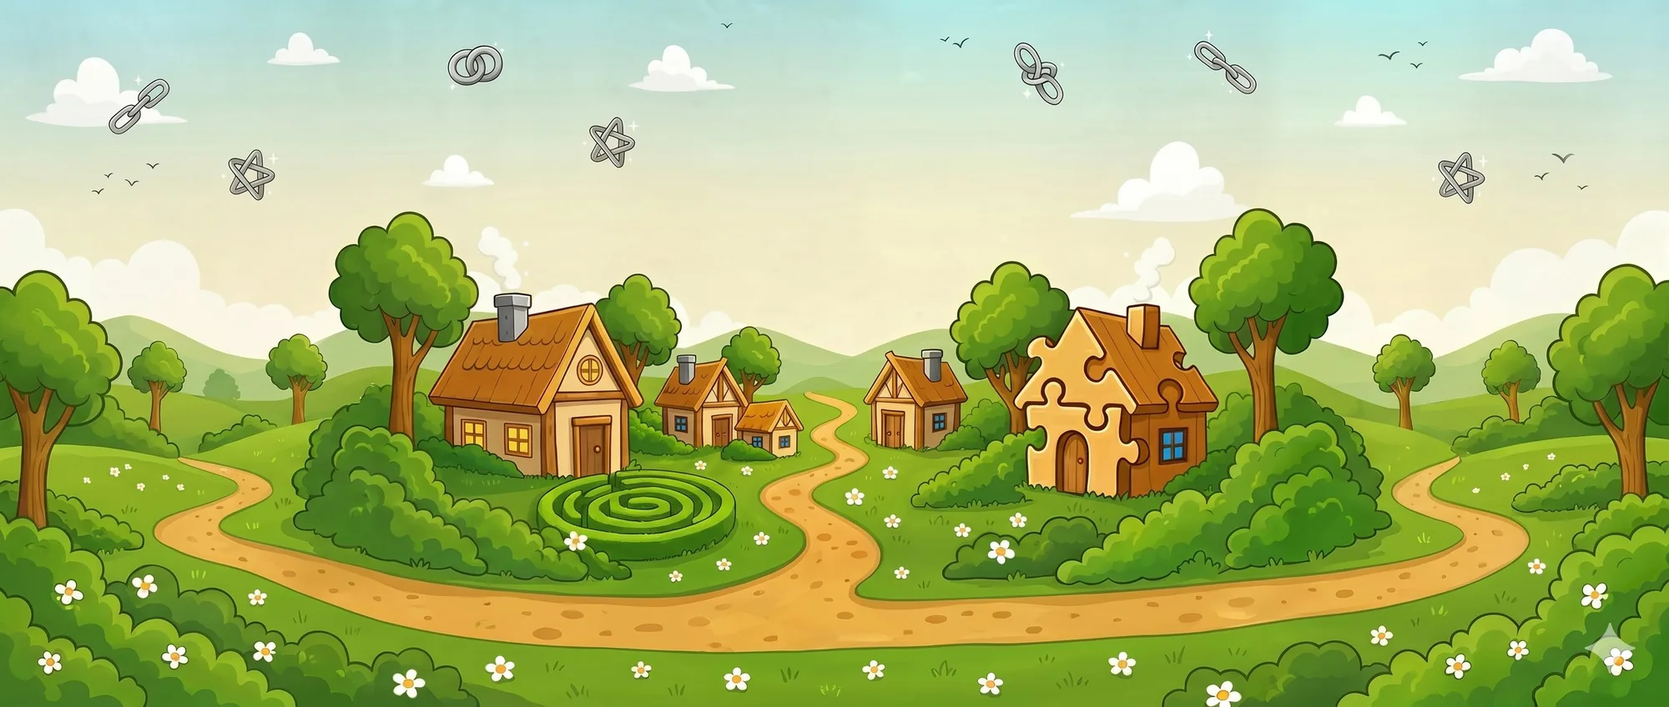
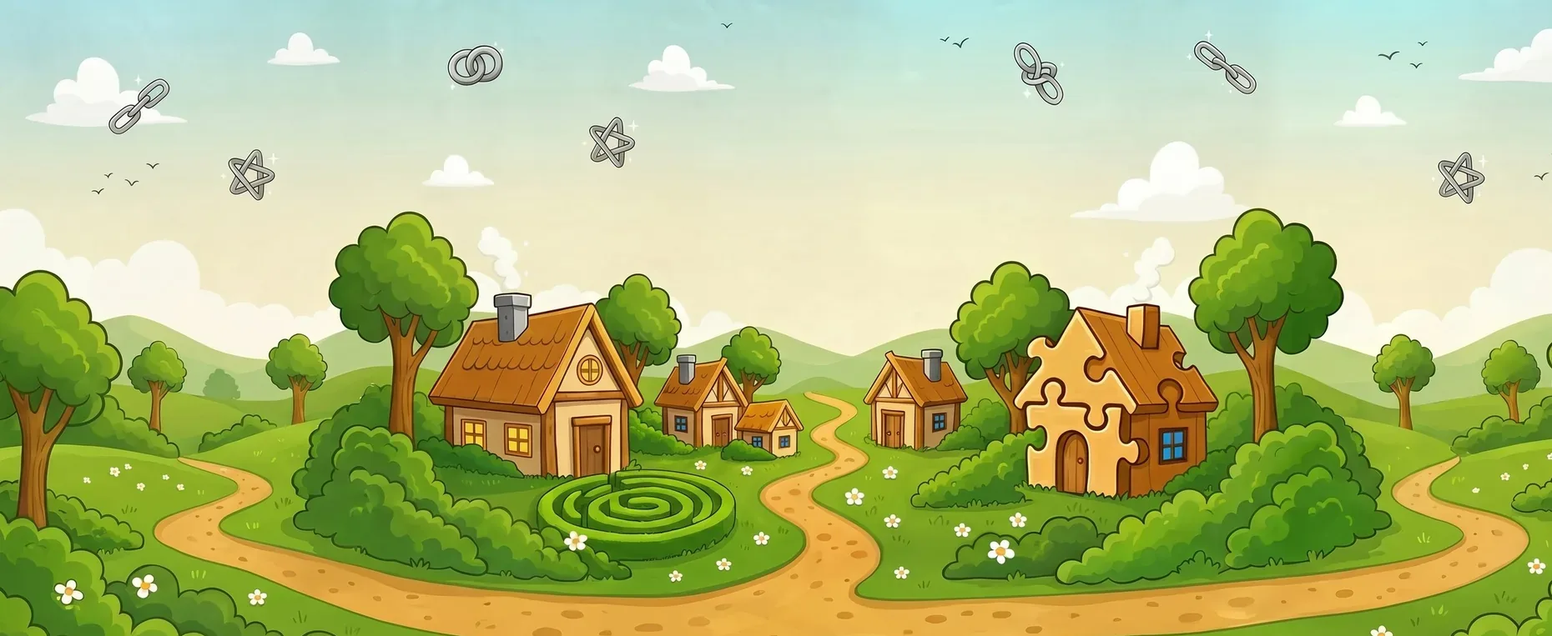
fix: кейс «Загадкино» — пропорции героев, крупные наборы, иконки идеи
- картинки персонажей больше не сжимаются по высоте карточки (object-fit: contain)
- предметка: три набора крупно в ряд, головоломки отдельным рядом под ними
- иконки у карточек «Кузница», «Подмастерья», «Три опоры»
- с иллюстрации деревни срезан водяной знак в правом нижнем углу

diff --git a/css/case-zagadkino.min.css b/css/case-zagadkino.min.css
@@ -1,1 +1,1 @@
-.zg{--zg-cream:#FFF4E1;--zg-cream2:#F6E7CC;--zg-paper:#FFFBF3;--zg-ink:#3B210F;--zg-brown:#5A3318;--zg-brown2:#7A4D2E;--zg-honey:#E6A24A;--zg-honey-dark:#8C5410;--zg-orange:#FF8A2B;--zg-green:#2B7A3D;--zg-ease:cubic-bezier(.2, .8, .2, 1);--zg-spring:cubic-bezier(.34, 1.56, .64, 1)}.zg figure{margin:0}.zg-island{position:relative;background:var(--zg-cream);color:var(--zg-ink);border-radius:32px;padding:clamp(28px,5vw,72px);overflow:hidden;isolation:isolate}.zg-island h2,.zg-island h3{color:var(--zg-ink)}.zg-island p{color:var(--zg-brown2)}.zg-island--orange{background:var(--zg-orange)}.zg-island--orange h2,.zg-island--orange p{color:var(--zg-ink)}.zg-island--green{background:var(--zg-green)}.zg-island--green h2,.zg-island--green p{color:#fff}.zg-island--dark{background:#1e140c}.zg-island--dark h2,.zg-island--dark h3{color:#fff4e1}.zg-island--dark p{color:#e9d6b8}.zg-kicker{display:inline-flex;align-items:center;gap:12px;font:700 13px/1 var(--font-ui);letter-spacing:.16em;text-transform:uppercase;color:var(--zg-honey-dark);margin-bottom:16px}.zg-kicker::before{content:"";width:28px;height:3px;border-radius:3px;background:var(--zg-honey)}.zg-island--green .zg-kicker{color:#fff}.zg-island--green .zg-kicker::before{background:#fff}.zg-island--orange .zg-kicker{color:var(--zg-ink)}.zg-island--orange .zg-kicker::before{background:var(--zg-ink)}.zg-island--dark .zg-kicker{color:#ffd463}.zg-island--dark .zg-kicker::before{background:#ffd463}.zg-island h2{font-size:clamp(28px, 4vw, 48px);line-height:1.08;margin-bottom:18px;text-wrap:balance}.zg-island p{font-size:clamp(16px, 1.3vw, 19px);line-height:1.55;max-width:60ch;text-wrap:pretty}.zg-head{margin-bottom:clamp(24px,4vw,44px);max-width:760px}.zg-cap{font:700 12px/1.2 var(--font-ui);letter-spacing:.12em;text-transform:uppercase;color:var(--zg-brown2);margin-top:12px}.zg-card{background:#fff;border:2px solid var(--zg-brown);border-radius:24px;padding:24px 26px}.zg-card h3{font-size:20px;margin-bottom:8px;color:var(--zg-honey-dark)}.zg-card p{font-size:16px}.zg-grid-3{display:grid;grid-template-columns:repeat(3,1fr);gap:20px}.zg-hero{position:relative}.zg-hero .container{position:relative}.zg-hero__uzlik{position:absolute;right:0;top:50%;width:min(34vw,460px);transform:translateY(-50%);pointer-events:auto;cursor:pointer;filter:drop-shadow(0 30px 40px rgba(0, 0, 0, .45))}.zg-hero__uzlik img{width:100%;height:auto;display:block;animation:zg-float 2.4s ease-in-out 2}.zg-hero__uzlik:focus-visible img,.zg-hero__uzlik:hover img{animation:zg-wiggle .7s var(--zg-ease) 1,zg-float 2.4s ease-in-out .7s 1}.zg-hero__uzlik:focus-visible{outline-offset:6px;border-radius:24px}.zg-hero__bubble{position:absolute;right:-2%;top:-8%;background:var(--zg-cream);color:var(--zg-ink);font:700 14px/1.2 var(--font-ui);padding:10px 14px;border-radius:16px 16px 16px 4px;opacity:0;transform:translateY(8px) scale(.9);transition:.35s var(--zg-spring)}.zg-hero__uzlik:focus-visible .zg-hero__bubble,.zg-hero__uzlik:hover .zg-hero__bubble{opacity:1;transform:none}.zg-hero__uzlik.is-quiet .zg-hero__bubble{opacity:0!important}.zg-hero .hero-copy{max-width:640px}@keyframes zg-float{0%,100%{transform:translateY(0) rotate(-3deg)}50%{transform:translateY(-18px) rotate(3deg)}}@keyframes zg-wiggle{0%{transform:rotate(0)}20%{transform:rotate(-12deg) scale(1.04)}40%{transform:rotate(10deg)}60%{transform:rotate(-6deg)}80%{transform:rotate(3deg)}100%{transform:rotate(0)}}.zg [data-anim]{transition:opacity .7s var(--zg-ease),transform .8s var(--zg-ease),clip-path 1s var(--zg-ease);transition-delay:calc(var(--i, 0) * 70ms)}.zg .reveal[data-anim=pop]{transform:scale(.82)}.zg .reveal[data-anim=slap]{transform:scale(1.35) rotate(var(--r,-8deg))}.zg .reveal[data-anim=slap].is-visible{transform:rotate(var(--r,-8deg));transition-timing-function:var(--zg-spring)}.zg .reveal[data-anim=wipe]{opacity:1;transform:none}.zg .reveal[data-anim=wipe]>*{clip-path:inset(0 100% 0 0);transition:clip-path 1.1s var(--zg-ease);transition-delay:calc(var(--i, 0) * 70ms)}.zg .reveal[data-anim=wipe].is-visible>*{clip-path:inset(0 0 0 0)}.zg .reveal[data-anim=left]{transform:translateX(-40px)}.zg .reveal[data-anim=right]{transform:translateX(40px)}.zg .reveal[data-anim].is-visible:not([data-anim=slap]){transform:none}.zg .reveal[data-stagger]>*{opacity:0;transform:translateY(18px) scale(.96);transition:opacity .5s var(--zg-ease),transform .6s var(--zg-spring);transition-delay:calc(var(--i, 0) * 35ms)}.zg .reveal[data-stagger].is-visible>*{opacity:1;transform:none}.zg-done{display:flex;flex-wrap:wrap;gap:10px;margin-top:22px}.zg-done{list-style:none;padding:0}.zg-done li{background:rgba(230,162,74,.14);color:var(--text);border:1px solid rgba(230,162,74,.35);border-radius:999px;padding:8px 14px;font:600 14px/1 var(--font-ui)}.zg-village{border-radius:24px;border:2px solid var(--zg-brown);overflow:hidden;margin-bottom:22px;aspect-ratio:2600/900}.zg-village img{width:100%;height:100%;object-fit:cover;object-position:50% 70%;display:block;transform:scale(1.08);transition:transform 2.4s var(--zg-ease)}.zg-village.is-visible img{transform:scale(1)}.zg-search{display:grid;grid-template-columns:1fr 1fr .9fr;gap:22px;align-items:center}.zg-search__grid{border-radius:20px;border:2px solid var(--zg-brown);overflow:hidden;background:var(--zg-cream);aspect-ratio:1/1;position:relative}.zg-search__grid img{width:100%;height:100%;object-fit:cover;object-position:top;display:block}.zg-search__tag{position:absolute;left:12px;top:12px;background:var(--zg-brown);color:var(--zg-cream);font:700 13px/1 var(--font-ui);padding:9px 12px;border-radius:8px}.zg-search__final{text-align:center}.zg-search__final img{width:100%;max-width:380px;height:auto;filter:drop-shadow(0 18px 26px rgba(59, 33, 15, .3))}.zg-palette{display:grid;grid-template-columns:repeat(3,minmax(0,1.4fr)) repeat(6,minmax(0,1fr));gap:12px;margin-bottom:22px}.zg-chip{aspect-ratio:3/4;border-radius:18px;border:2px solid var(--zg-brown);padding:14px;display:flex;flex-direction:column;justify-content:flex-end}.zg-chip b{font:700 13px/1.2 var(--font-ui);hyphens:none}.zg-chip i{font:600 12px/1 var(--font-ui);font-style:normal;margin-top:6px;letter-spacing:.04em}.zg-type{display:grid;grid-template-columns:1.1fr 1fr;gap:20px}.zg-type .big{font-size:clamp(30px, 8vw, 80px);line-height:1;margin:10px 0 14px;color:var(--zg-ink);font-weight:800}.zg-type .slogan{color:#b5530f;font-weight:700;font-size:clamp(20px, 2.2vw, 28px)}.zg-family .zg-card{text-align:left}.zg-family__pic{height:300px;display:flex;align-items:flex-end;justify-content:center;margin-bottom:18px}.zg-family__pic img{max-height:100%;max-width:100%;transition:transform .5s var(--zg-spring)}.zg-family .zg-card:hover .zg-family__pic img{transform:translateY(-8px) rotate(-2deg)}.zg-family h3{color:var(--zg-ink);font-size:22px}.zg-role{font:700 12px/1 var(--font-ui);letter-spacing:.1em;text-transform:uppercase;color:var(--zg-honey-dark);margin-bottom:10px}.zg-quote{margin-top:14px;padding-left:14px;border-left:4px solid var(--zg-honey);color:var(--zg-honey-dark);font-weight:700;font-size:16px}.zg-sheets{display:grid;grid-template-columns:1.2fr 1fr;gap:20px;margin-top:20px}.zg-sheets .zg-card{padding:12px;display:flex;align-items:center}.zg-sheets img{width:100%;height:auto;display:block}.zg-uz{display:grid;grid-template-columns:minmax(0,1fr) minmax(0,1fr);gap:40px;align-items:center}.zg-uz__main{position:relative}.zg-uz__main.is-visible>img{animation:zg-float 2.4s ease-in-out 2}.zg-uz__main:hover>img{animation:zg-wiggle .7s var(--zg-ease) 1}.zg-uz__main>img{width:100%;height:auto;filter:drop-shadow(0 26px 30px rgba(59, 33, 15, .25))}.zg-emos{display:grid;grid-template-columns:repeat(3,minmax(0,1fr));gap:14px;margin-top:24px}.zg-emos figure{background:#fff;border:2px solid var(--zg-brown);border-radius:18px;padding:14px 8px 10px;text-align:center;transition:transform .3s var(--zg-spring)}.zg-emos figure:hover{transform:translateY(-6px) rotate(-3deg)}.zg-emos img{height:auto;width:100%;max-width:110px}.zg-emos figcaption{font:700 12px/1 var(--font-ui);letter-spacing:.08em;text-transform:uppercase;color:var(--zg-brown2);margin-top:8px}.zg-uz__forms{display:grid;grid-template-columns:minmax(0,1fr) minmax(0,1fr);gap:16px;margin-top:18px}.zg-uz__forms .zg-card{display:flex;align-items:center;justify-content:center;padding:18px}.zg-uz__forms img{width:100%;height:auto}.zg-tone{display:grid;grid-template-columns:1.1fr 1fr;gap:20px}.zg-tone .yes{background:#fff;border:2px solid var(--zg-brown);border-radius:24px;padding:28px 30px}.zg-tone .no{border:2px dashed #d9be98;border-radius:24px;padding:28px 30px}.zg-tone .lbl{font:700 13px/1 var(--font-ui);letter-spacing:.12em;text-transform:uppercase;margin-bottom:14px}.zg-tone .yes .lbl{color:var(--zg-green)}.zg-tone .no .lbl{color:#a0472c}.zg-tone q{display:block;font-weight:700;font-size:clamp(18px, 1.8vw, 24px);color:var(--zg-ink);padding:8px 0;quotes:"«" "»"}.zg-tone .no span{display:block;font-weight:700;font-size:clamp(16px, 1.5vw, 20px);color:#7e5d40;padding:8px 0;background:linear-gradient(#c9694f,#c9694f) 0 55%/0 3px no-repeat;transition:background-size .6s var(--zg-ease);transition-delay:calc(.4s + var(--i, 0) * 180ms)}.zg-tone.is-visible .no span{background-size:100% 3px}.zg-lids{display:grid;grid-template-columns:repeat(2,1fr);gap:18px}.zg-ply{aspect-ratio:16/10;border-radius:20px;border:2px solid var(--zg-brown);background:linear-gradient(135deg,#d9a66b,#c88a4e 55%,#d49c5f);display:flex;align-items:center;justify-content:center;position:relative;overflow:hidden}.zg-ply img{width:84%;height:78%;object-fit:contain;opacity:.92}.zg-ply .zg-cap{position:absolute;left:14px;bottom:12px;margin:0;color:var(--zg-ink);background:rgba(255,244,225,.85);padding:5px 9px;border-radius:6px}.zg-box{display:grid;grid-template-columns:1fr 1fr;gap:22px;align-items:center;margin-top:26px}.zg-box img{width:100%;height:auto;display:block;border-radius:20px}.zg-stickers{position:relative;min-height:460px}.zg-stickers .pat{position:absolute;inset:0;background:url(../assets/cases/zagadkino/pattern.webp) 0 0/300px;opacity:.14;filter:brightness(0);z-index:-1}.zg-st{position:absolute;filter:drop-shadow(0 14px 18px rgba(120, 50, 0, .35));transition-property:opacity,transform}.zg-st:hover{z-index:3}.zg-booklet{display:grid;grid-template-columns:.8fr 1.4fr;gap:40px;align-items:center}.zg-bk-scene{position:relative;aspect-ratio:16/10}.zg-bk-closed{position:absolute;left:0;bottom:0;width:38%;transform:rotate(-7deg);z-index:2;box-shadow:3px 3px 0 #f4ecdd,4px 4px 0 #e2d3b8,6px 7px 6px rgba(59,33,15,.2),22px 34px 46px -6px rgba(59,33,15,.34);border-radius:3px;overflow:hidden}.zg-bk-closed img{width:100%;display:block}.zg-bk-open{position:absolute;right:0;top:0;width:76%;aspect-ratio:2400/1697;perspective:1800px}.zg-bk-open .tilt{position:absolute;inset:0;transform-style:preserve-3d;transform:rotateX(28deg) rotateZ(5deg)}.zg-bk-open .half{position:absolute;top:0;width:50%;height:100%;overflow:hidden;transition:transform 1.4s var(--zg-ease) .2s}.zg-bk-open .half img{width:100%;height:100%;object-fit:cover;display:block}.zg-bk-open .l{left:0;transform-origin:right center;transform:rotateY(80deg)}.zg-bk-open .r{right:0;transform-origin:left center;transform:rotateY(-80deg)}.zg-bk-open.is-visible .l{transform:rotateY(4deg)}.zg-bk-open.is-visible .r{transform:rotateY(-4deg)}.zg-bk-open .l::after{content:"";position:absolute;inset:0;background:linear-gradient(90deg,rgba(255,255,255,.08) 0,transparent 40%,transparent 80%,rgba(60,28,8,.1) 92%,rgba(60,28,8,.3) 100%)}.zg-bk-open .r::after{content:"";position:absolute;inset:0;background:linear-gradient(270deg,rgba(60,28,8,.05) 0,transparent 40%,transparent 80%,rgba(60,28,8,.12) 92%,rgba(60,28,8,.32) 100%)}.zg-bk-open .cast{position:absolute;inset:2% 1%;background:rgba(59,33,15,.4);border-radius:6px;filter:blur(20px);transform:translate(24px,30px) translateZ(-2px)}.zg-bk-open.reveal{opacity:1;transform:none}.zg-photos{display:grid;grid-template-columns:1.6fr 1fr;gap:20px}.zg-photos__main{border-radius:20px;overflow:hidden;background:#fff}.zg-photos__main{display:flex;align-items:center;padding:16px}.zg-photos__main img{width:100%;height:auto;display:block}.zg-photos__side{display:grid;grid-template-rows:repeat(3,1fr);gap:14px}.zg-photos__side figure{background:#fff;border-radius:20px;padding:12px;display:flex;flex-direction:column;align-items:center;justify-content:flex-end}.zg-photos__side img{max-height:150px;width:auto;max-width:100%}.zg-video{display:grid;grid-template-columns:1fr 1.4fr;gap:40px;align-items:start}.zg-reel{display:grid;grid-template-columns:repeat(3,1fr);gap:18px}.zg-reel figure{position:relative;aspect-ratio:9/16;border-radius:22px;overflow:hidden;border:1px solid rgba(255,244,225,.18);box-shadow:0 24px 50px rgba(0,0,0,.5)}.zg-reel figure:nth-child(2){margin-top:60px}.zg-reel figure:nth-child(3){margin-top:120px}.zg-reel img{width:100%;height:100%;object-fit:cover;display:block}.zg-reel figcaption{position:absolute;left:12px;bottom:12px;background:rgba(30,20,12,.8);color:#fff4e1;font:700 13px/1 var(--font-ui);padding:8px 12px;border-radius:8px}.zg-reel figcaption b{color:#ffd463}.zg-covers{display:grid;grid-template-columns:repeat(8,1fr);gap:6px;margin-top:18px}.zg-covers img{width:100%;aspect-ratio:9/16;object-fit:cover;border-radius:6px;display:block}.zg-bts{display:grid;grid-template-columns:1fr auto;gap:40px;align-items:center;margin-top:clamp(40px,6vw,72px);padding-top:clamp(32px,5vw,56px);border-top:1px solid rgba(255,244,225,.12)}.zg-phone{width:min(300px,70vw);aspect-ratio:9/16;background:#0d0d0d;border-radius:40px;padding:10px;box-shadow:0 30px 60px rgba(0,0,0,.55),0 0 0 1px rgba(255,244,225,.12)}.zg-phone{position:relative}.zg-phone__toggle{position:absolute;left:50%;bottom:22px;transform:translateX(-50%);background:rgba(30,20,12,.82);color:#fff4e1;border:1px solid rgba(255,244,225,.35);border-radius:999px;padding:9px 16px;font:700 14px/1 var(--font-ui);cursor:pointer}.zg-phone__toggle:hover{background:rgba(30,20,12,.95)}.zg-phone__toggle:focus-visible{outline:3px solid #FFD463;outline-offset:3px}.zg-phone video{width:100%;height:100%;object-fit:cover;border-radius:30px;display:block;background:#000}.zg-reel iframe{width:100%;height:100%;border:0;display:block;background:#000}.zg-play{position:absolute;inset:0;width:100%;height:100%;display:flex;align-items:center;justify-content:center;background:0 0;border:0;cursor:pointer;padding:0}.zg-play span{width:68px;height:68px;border-radius:50%;background:rgba(255,212,99,.94);box-shadow:0 10px 30px rgba(0,0,0,.45);position:relative;transition:transform .3s var(--zg-spring),background .2s}.zg-play span::after{content:"";position:absolute;left:27px;top:21px;border-left:20px solid #1e140c;border-top:13px solid transparent;border-bottom:13px solid transparent}.zg-play:hover span{transform:scale(1.12);background:#ffd463}.zg-play:focus-visible{outline:3px solid #FFD463;outline-offset:-6px;border-radius:22px}.zg-reel figure.is-playing figcaption{display:none}.zg-vk{display:grid;grid-template-columns:1fr auto;gap:30px;align-items:end}.zg-vk__desk{background:#fff;border-radius:22px;overflow:hidden;box-shadow:0 24px 50px rgba(0,30,0,.3)}.zg-vk__desk>img{width:100%;display:block}.zg-vk__meta{display:flex;align-items:center;gap:16px;padding:0 22px 18px;margin-top:-40px;position:relative}.zg-vk__meta img{width:92px;height:92px;border-radius:50%;border:5px solid #fff}.zg-vk__meta b{display:block;color:#222;font:800 20px/1 var(--font-ui);margin-top:40px}.zg-vk__btns{display:grid;grid-template-columns:repeat(5,1fr);gap:10px;padding:0 22px 22px}.zg-vk__btns img{width:100%;border-radius:8px;display:block}.zg-vk__phone{width:240px;border-radius:34px;background:#111;padding:9px;box-shadow:0 24px 50px rgba(0,30,0,.35)}.zg-vk__phone img{width:100%;border-radius:26px;display:block}.zg-browser{background:#fff;border-radius:18px;overflow:hidden;box-shadow:0 24px 60px rgba(0,0,0,.4)}.zg-browser__bar{height:34px;background:#f3e6d0;display:flex;align-items:center;gap:7px;padding:0 14px}.zg-browser__bar i{width:10px;height:10px;border-radius:50%;background:#d9c3a3}.zg-browser__bar span{margin-left:10px;font:700 12px/1 var(--font-ui);color:#8a6a4a;background:#fff;border-radius:6px;padding:5px 12px}.zg-browser img{width:100%;display:block}.zg-site{display:grid;grid-template-columns:1.8fr 1fr;gap:24px;align-items:start}.zg-secs{display:grid;grid-template-columns:repeat(3,1fr);gap:14px;margin-top:24px}.zg-secs figure{margin:0}.zg-secs .im{border-radius:12px;overflow:hidden;background:#fbf0dc;aspect-ratio:16/10;display:flex;align-items:center;box-shadow:0 10px 24px rgba(59,33,15,.16)}.zg-secs img{width:100%;height:auto;display:block}.zg-secs figcaption{font:700 13px/1.3 var(--font-ui);color:var(--zg-brown);margin-top:8px}.zg-phones{display:grid;grid-template-columns:repeat(5,1fr);gap:16px;margin-top:26px}.zg-phones div{background:#111;border-radius:26px;padding:7px;aspect-ratio:9/19.5;overflow:hidden}.zg-phones img{width:100%;height:100%;object-fit:cover;object-position:top;border-radius:20px;display:block}.zg-phones div:nth-child(2n){transform:translateY(26px)}.zg-end{position:relative;overflow:visible}.zg-end .container{position:relative}.zg-end__uz{position:absolute;right:0;top:-20px;width:170px;transform:translateY(60px) rotate(-12deg);opacity:0;transition:transform .9s var(--zg-spring) .3s,opacity .4s ease .3s;z-index:2}.zg-end.is-visible .zg-end__uz{transform:translateY(0) rotate(8deg);opacity:1}@media (max-width:1100px){.zg-hero__uzlik{width:260px}.zg-hero .hero-copy{max-width:calc(100% - 290px)}.zg-stickers{min-height:0;display:grid;grid-template-columns:repeat(3,minmax(0,1fr));gap:18px;align-items:center}.zg-stickers .zg-head{grid-column:1/-1;margin-bottom:8px}.zg-stickers .zg-st{position:static;width:100%!important}.zg-search{grid-template-columns:1fr 1fr}.zg-search__final{grid-column:span 2}.zg-palette{grid-template-columns:repeat(3,minmax(0,1fr))}.zg-booklet,.zg-site,.zg-uz,.zg-video{grid-template-columns:minmax(0,1fr)}}@media (max-width:760px){.zg-hero__uzlik{position:static;transform:none;width:220px;margin:24px auto 0;display:block}.zg-hero .hero-copy{max-width:none}.zg-box,.zg-bts,.zg-grid-3,.zg-lids,.zg-photos,.zg-sheets,.zg-tone,.zg-type,.zg-uz__forms,.zg-vk{grid-template-columns:minmax(0,1fr)}.zg-search{grid-template-columns:1fr}.zg-search__final{grid-column:auto}.zg-family__pic{height:240px}.zg-stickers{grid-template-columns:minmax(0,1fr) minmax(0,1fr)}.zg-covers{grid-template-columns:repeat(4,1fr)}.zg-emos{gap:10px}.zg-emos figure{padding:10px 4px 8px}.zg-emos figcaption{font-size:11px;letter-spacing:.03em}.zg-reel figure:nth-child(2),.zg-reel figure:nth-child(3){margin-top:0}.zg-secs{grid-template-columns:1fr 1fr}.zg-phones{grid-template-columns:repeat(3,1fr)}.zg-phones div:nth-child(n+4){display:none}.zg-vk__phone{display:none}.zg-end__uz{width:96px;top:-10px}}@media (prefers-reduced-motion:reduce){.zg *,.zg ::after,.zg ::before{animation:none!important;transition:none!important}.zg .reveal,.zg .reveal>*,.zg [data-anim],.zg [data-anim]>*{opacity:1!important;transform:none!important;clip-path:none!important}.zg .reveal[data-anim=slap]{transform:rotate(var(--r,0deg))!important}.zg-bk-open .l{transform:rotateY(4deg)!important}.zg-bk-open .r{transform:rotateY(-4deg)!important}.zg-tone .no span{background-size:100% 3px}.zg-end__uz{opacity:1;transform:rotate(8deg)!important}}
+.zg{--zg-cream:#FFF4E1;--zg-cream2:#F6E7CC;--zg-paper:#FFFBF3;--zg-ink:#3B210F;--zg-brown:#5A3318;--zg-brown2:#7A4D2E;--zg-honey:#E6A24A;--zg-honey-dark:#8C5410;--zg-orange:#FF8A2B;--zg-green:#2B7A3D;--zg-ease:cubic-bezier(.2, .8, .2, 1);--zg-spring:cubic-bezier(.34, 1.56, .64, 1)}.zg figure{margin:0}.zg-island{position:relative;background:var(--zg-cream);color:var(--zg-ink);border-radius:32px;padding:clamp(28px,5vw,72px);overflow:hidden;isolation:isolate}.zg-island h2,.zg-island h3{color:var(--zg-ink)}.zg-island p{color:var(--zg-brown2)}.zg-island--orange{background:var(--zg-orange)}.zg-island--orange h2,.zg-island--orange p{color:var(--zg-ink)}.zg-island--green{background:var(--zg-green)}.zg-island--green h2,.zg-island--green p{color:#fff}.zg-island--dark{background:#1e140c}.zg-island--dark h2,.zg-island--dark h3{color:#fff4e1}.zg-island--dark p{color:#e9d6b8}.zg-kicker{display:inline-flex;align-items:center;gap:12px;font:700 13px/1 var(--font-ui);letter-spacing:.16em;text-transform:uppercase;color:var(--zg-honey-dark);margin-bottom:16px}.zg-kicker::before{content:"";width:28px;height:3px;border-radius:3px;background:var(--zg-honey)}.zg-island--green .zg-kicker{color:#fff}.zg-island--green .zg-kicker::before{background:#fff}.zg-island--orange .zg-kicker{color:var(--zg-ink)}.zg-island--orange .zg-kicker::before{background:var(--zg-ink)}.zg-island--dark .zg-kicker{color:#ffd463}.zg-island--dark .zg-kicker::before{background:#ffd463}.zg-island h2{font-size:clamp(28px, 4vw, 48px);line-height:1.08;margin-bottom:18px;text-wrap:balance}.zg-island p{font-size:clamp(16px, 1.3vw, 19px);line-height:1.55;max-width:60ch;text-wrap:pretty}.zg-head{margin-bottom:clamp(24px,4vw,44px);max-width:760px}.zg-cap{font:700 12px/1.2 var(--font-ui);letter-spacing:.12em;text-transform:uppercase;color:var(--zg-brown2);margin-top:12px}.zg-card{background:#fff;border:2px solid var(--zg-brown);border-radius:24px;padding:24px 26px}.zg-card h3{font-size:20px;margin-bottom:8px;color:var(--zg-honey-dark)}.zg-card p{font-size:16px}.zg-grid-3{display:grid;grid-template-columns:repeat(3,1fr);gap:20px}.zg-hero{position:relative}.zg-hero .container{position:relative}.zg-hero__uzlik{position:absolute;right:0;top:50%;width:min(34vw,460px);transform:translateY(-50%);pointer-events:auto;cursor:pointer;filter:drop-shadow(0 30px 40px rgba(0, 0, 0, .45))}.zg-hero__uzlik img{width:100%;height:auto;display:block;animation:zg-float 2.4s ease-in-out 2}.zg-hero__uzlik:focus-visible img,.zg-hero__uzlik:hover img{animation:zg-wiggle .7s var(--zg-ease) 1,zg-float 2.4s ease-in-out .7s 1}.zg-hero__uzlik:focus-visible{outline-offset:6px;border-radius:24px}.zg-hero__bubble{position:absolute;right:-2%;top:-8%;background:var(--zg-cream);color:var(--zg-ink);font:700 14px/1.2 var(--font-ui);padding:10px 14px;border-radius:16px 16px 16px 4px;opacity:0;transform:translateY(8px) scale(.9);transition:.35s var(--zg-spring)}.zg-hero__uzlik:focus-visible .zg-hero__bubble,.zg-hero__uzlik:hover .zg-hero__bubble{opacity:1;transform:none}.zg-hero__uzlik.is-quiet .zg-hero__bubble{opacity:0!important}.zg-hero .hero-copy{max-width:640px}@keyframes zg-float{0%,100%{transform:translateY(0) rotate(-3deg)}50%{transform:translateY(-18px) rotate(3deg)}}@keyframes zg-wiggle{0%{transform:rotate(0)}20%{transform:rotate(-12deg) scale(1.04)}40%{transform:rotate(10deg)}60%{transform:rotate(-6deg)}80%{transform:rotate(3deg)}100%{transform:rotate(0)}}.zg [data-anim]{transition:opacity .7s var(--zg-ease),transform .8s var(--zg-ease),clip-path 1s var(--zg-ease);transition-delay:calc(var(--i, 0) * 70ms)}.zg .reveal[data-anim=pop]{transform:scale(.82)}.zg .reveal[data-anim=slap]{transform:scale(1.35) rotate(var(--r,-8deg))}.zg .reveal[data-anim=slap].is-visible{transform:rotate(var(--r,-8deg));transition-timing-function:var(--zg-spring)}.zg .reveal[data-anim=wipe]{opacity:1;transform:none}.zg .reveal[data-anim=wipe]>*{clip-path:inset(0 100% 0 0);transition:clip-path 1.1s var(--zg-ease);transition-delay:calc(var(--i, 0) * 70ms)}.zg .reveal[data-anim=wipe].is-visible>*{clip-path:inset(0 0 0 0)}.zg .reveal[data-anim=left]{transform:translateX(-40px)}.zg .reveal[data-anim=right]{transform:translateX(40px)}.zg .reveal[data-anim].is-visible:not([data-anim=slap]){transform:none}.zg .reveal[data-stagger]>*{opacity:0;transform:translateY(18px) scale(.96);transition:opacity .5s var(--zg-ease),transform .6s var(--zg-spring);transition-delay:calc(var(--i, 0) * 35ms)}.zg .reveal[data-stagger].is-visible>*{opacity:1;transform:none}.zg-done{display:flex;flex-wrap:wrap;gap:10px;margin-top:22px}.zg-done{list-style:none;padding:0}.zg-done li{background:rgba(230,162,74,.14);color:var(--text);border:1px solid rgba(230,162,74,.35);border-radius:999px;padding:8px 14px;font:600 14px/1 var(--font-ui)}.zg-village{border-radius:24px;border:2px solid var(--zg-brown);overflow:hidden;margin-bottom:22px;aspect-ratio:2600/900}.zg-village img{width:100%;height:100%;object-fit:cover;object-position:50% 70%;display:block;transform:scale(1.08);transition:transform 2.4s var(--zg-ease)}.zg-village.is-visible img{transform:scale(1)}.zg-search{display:grid;grid-template-columns:1fr 1fr .9fr;gap:22px;align-items:center}.zg-search__grid{border-radius:20px;border:2px solid var(--zg-brown);overflow:hidden;background:var(--zg-cream);aspect-ratio:1/1;position:relative}.zg-search__grid img{width:100%;height:100%;object-fit:cover;object-position:top;display:block}.zg-search__tag{position:absolute;left:12px;top:12px;background:var(--zg-brown);color:var(--zg-cream);font:700 13px/1 var(--font-ui);padding:9px 12px;border-radius:8px}.zg-search__final{text-align:center}.zg-search__final img{width:100%;max-width:380px;height:auto;filter:drop-shadow(0 18px 26px rgba(59, 33, 15, .3))}.zg-palette{display:grid;grid-template-columns:repeat(3,minmax(0,1.4fr)) repeat(6,minmax(0,1fr));gap:12px;margin-bottom:22px}.zg-chip{aspect-ratio:3/4;border-radius:18px;border:2px solid var(--zg-brown);padding:14px;display:flex;flex-direction:column;justify-content:flex-end}.zg-chip b{font:700 13px/1.2 var(--font-ui);hyphens:none}.zg-chip i{font:600 12px/1 var(--font-ui);font-style:normal;margin-top:6px;letter-spacing:.04em}.zg-type{display:grid;grid-template-columns:1.1fr 1fr;gap:20px}.zg-type .big{font-size:clamp(30px, 8vw, 80px);line-height:1;margin:10px 0 14px;color:var(--zg-ink);font-weight:800}.zg-type .slogan{color:#b5530f;font-weight:700;font-size:clamp(20px, 2.2vw, 28px)}.zg-family .zg-card{text-align:left}.zg-family__pic{height:300px;display:flex;align-items:flex-end;justify-content:center;margin-bottom:18px}.zg-family__pic img{width:auto;height:auto;max-height:100%;max-width:100%;object-fit:contain;transition:transform .5s var(--zg-spring)}.zg-family .zg-card:hover .zg-family__pic img{transform:translateY(-8px) rotate(-2deg)}.zg-family h3{color:var(--zg-ink);font-size:22px}.zg-role{font:700 12px/1 var(--font-ui);letter-spacing:.1em;text-transform:uppercase;color:var(--zg-honey-dark);margin-bottom:10px}.zg-quote{margin-top:14px;padding-left:14px;border-left:4px solid var(--zg-honey);color:var(--zg-honey-dark);font-weight:700;font-size:16px}.zg-sheets{display:grid;grid-template-columns:1.2fr 1fr;gap:20px;margin-top:20px}.zg-sheets .zg-card{padding:12px;display:flex;align-items:center}.zg-sheets img{width:100%;height:auto;display:block}.zg-uz{display:grid;grid-template-columns:minmax(0,1fr) minmax(0,1fr);gap:40px;align-items:center}.zg-uz__main{position:relative}.zg-uz__main.is-visible>img{animation:zg-float 2.4s ease-in-out 2}.zg-uz__main:hover>img{animation:zg-wiggle .7s var(--zg-ease) 1}.zg-uz__main>img{width:100%;height:auto;filter:drop-shadow(0 26px 30px rgba(59, 33, 15, .25))}.zg-emos{display:grid;grid-template-columns:repeat(3,minmax(0,1fr));gap:14px;margin-top:24px}.zg-emos figure{background:#fff;border:2px solid var(--zg-brown);border-radius:18px;padding:14px 8px 10px;text-align:center;transition:transform .3s var(--zg-spring)}.zg-emos figure:hover{transform:translateY(-6px) rotate(-3deg)}.zg-emos img{height:auto;width:100%;max-width:110px}.zg-emos figcaption{font:700 12px/1 var(--font-ui);letter-spacing:.08em;text-transform:uppercase;color:var(--zg-brown2);margin-top:8px}.zg-uz__forms{display:grid;grid-template-columns:minmax(0,1fr) minmax(0,1fr);gap:16px;margin-top:18px}.zg-uz__forms .zg-card{display:flex;align-items:center;justify-content:center;padding:18px}.zg-uz__forms img{width:100%;height:auto}.zg-tone{display:grid;grid-template-columns:1.1fr 1fr;gap:20px}.zg-tone .yes{background:#fff;border:2px solid var(--zg-brown);border-radius:24px;padding:28px 30px}.zg-tone .no{border:2px dashed #d9be98;border-radius:24px;padding:28px 30px}.zg-tone .lbl{font:700 13px/1 var(--font-ui);letter-spacing:.12em;text-transform:uppercase;margin-bottom:14px}.zg-tone .yes .lbl{color:var(--zg-green)}.zg-tone .no .lbl{color:#a0472c}.zg-tone q{display:block;font-weight:700;font-size:clamp(18px, 1.8vw, 24px);color:var(--zg-ink);padding:8px 0;quotes:"«" "»"}.zg-tone .no span{display:block;font-weight:700;font-size:clamp(16px, 1.5vw, 20px);color:#7e5d40;padding:8px 0;background:linear-gradient(#c9694f,#c9694f) 0 55%/0 3px no-repeat;transition:background-size .6s var(--zg-ease);transition-delay:calc(.4s + var(--i, 0) * 180ms)}.zg-tone.is-visible .no span{background-size:100% 3px}.zg-lids{display:grid;grid-template-columns:repeat(2,1fr);gap:18px}.zg-ply{aspect-ratio:16/10;border-radius:20px;border:2px solid var(--zg-brown);background:linear-gradient(135deg,#d9a66b,#c88a4e 55%,#d49c5f);display:flex;align-items:center;justify-content:center;position:relative;overflow:hidden}.zg-ply img{width:84%;height:78%;object-fit:contain;opacity:.92}.zg-ply .zg-cap{position:absolute;left:14px;bottom:12px;margin:0;color:var(--zg-ink);background:rgba(255,244,225,.85);padding:5px 9px;border-radius:6px}.zg-box{display:grid;grid-template-columns:1fr 1fr;gap:22px;align-items:center;margin-top:26px}.zg-box img{width:100%;height:auto;display:block;border-radius:20px}.zg-stickers{position:relative;min-height:460px}.zg-stickers .pat{position:absolute;inset:0;background:url(../assets/cases/zagadkino/pattern.webp) 0 0/300px;opacity:.14;filter:brightness(0);z-index:-1}.zg-st{position:absolute;filter:drop-shadow(0 14px 18px rgba(120, 50, 0, .35));transition-property:opacity,transform}.zg-st:hover{z-index:3}.zg-booklet{display:grid;grid-template-columns:.8fr 1.4fr;gap:40px;align-items:center}.zg-bk-scene{position:relative;aspect-ratio:16/10}.zg-bk-closed{position:absolute;left:0;bottom:0;width:38%;transform:rotate(-7deg);z-index:2;box-shadow:3px 3px 0 #f4ecdd,4px 4px 0 #e2d3b8,6px 7px 6px rgba(59,33,15,.2),22px 34px 46px -6px rgba(59,33,15,.34);border-radius:3px;overflow:hidden}.zg-bk-closed img{width:100%;display:block}.zg-bk-open{position:absolute;right:0;top:0;width:76%;aspect-ratio:2400/1697;perspective:1800px}.zg-bk-open .tilt{position:absolute;inset:0;transform-style:preserve-3d;transform:rotateX(28deg) rotateZ(5deg)}.zg-bk-open .half{position:absolute;top:0;width:50%;height:100%;overflow:hidden;transition:transform 1.4s var(--zg-ease) .2s}.zg-bk-open .half img{width:100%;height:100%;object-fit:cover;display:block}.zg-bk-open .l{left:0;transform-origin:right center;transform:rotateY(80deg)}.zg-bk-open .r{right:0;transform-origin:left center;transform:rotateY(-80deg)}.zg-bk-open.is-visible .l{transform:rotateY(4deg)}.zg-bk-open.is-visible .r{transform:rotateY(-4deg)}.zg-bk-open .l::after{content:"";position:absolute;inset:0;background:linear-gradient(90deg,rgba(255,255,255,.08) 0,transparent 40%,transparent 80%,rgba(60,28,8,.1) 92%,rgba(60,28,8,.3) 100%)}.zg-bk-open .r::after{content:"";position:absolute;inset:0;background:linear-gradient(270deg,rgba(60,28,8,.05) 0,transparent 40%,transparent 80%,rgba(60,28,8,.12) 92%,rgba(60,28,8,.32) 100%)}.zg-bk-open .cast{position:absolute;inset:2% 1%;background:rgba(59,33,15,.4);border-radius:6px;filter:blur(20px);transform:translate(24px,30px) translateZ(-2px)}.zg-bk-open.reveal{opacity:1;transform:none}.zg-photos{display:grid;grid-template-columns:1.6fr 1fr;gap:20px}.zg-photos__main{border-radius:20px;overflow:hidden;background:#fff}.zg-photos__main{display:flex;align-items:center;padding:16px}.zg-photos__main img{width:100%;height:auto;display:block}.zg-photos__side{display:grid;grid-template-rows:repeat(3,1fr);gap:14px}.zg-photos__side figure{background:#fff;border-radius:20px;padding:12px;display:flex;flex-direction:column;align-items:center;justify-content:flex-end}.zg-photos__side img{max-height:150px;width:auto;max-width:100%}.zg-ico{display:inline-flex;width:56px;height:56px;border-radius:16px;background:#fff1d6;align-items:center;justify-content:center;margin-bottom:14px}.zg-ico svg{width:36px;height:36px}.zg-sets{display:grid;grid-template-columns:.72fr 1fr 1fr;gap:20px;align-items:end;margin-bottom:28px}.zg-sets figure{background:#fff;border-radius:20px;padding:20px 16px 16px;display:flex;flex-direction:column;align-items:center;justify-content:flex-end;height:100%}.zg-sets img{width:100%;height:auto;max-height:360px;object-fit:contain}.zg-puzzles img{width:100%;height:auto;display:block;max-width:1100px;margin:0 auto}@media (max-width:760px){.zg-sets{grid-template-columns:minmax(0,1fr)}.zg-sets img{max-height:300px}}.zg-video{display:grid;grid-template-columns:1fr 1.4fr;gap:40px;align-items:start}.zg-reel{display:grid;grid-template-columns:repeat(3,1fr);gap:18px}.zg-reel figure{position:relative;aspect-ratio:9/16;border-radius:22px;overflow:hidden;border:1px solid rgba(255,244,225,.18);box-shadow:0 24px 50px rgba(0,0,0,.5)}.zg-reel figure:nth-child(2){margin-top:60px}.zg-reel figure:nth-child(3){margin-top:120px}.zg-reel img{width:100%;height:100%;object-fit:cover;display:block}.zg-reel figcaption{position:absolute;left:12px;bottom:12px;background:rgba(30,20,12,.8);color:#fff4e1;font:700 13px/1 var(--font-ui);padding:8px 12px;border-radius:8px}.zg-reel figcaption b{color:#ffd463}.zg-covers{display:grid;grid-template-columns:repeat(8,1fr);gap:6px;margin-top:18px}.zg-covers img{width:100%;aspect-ratio:9/16;object-fit:cover;border-radius:6px;display:block}.zg-bts{display:grid;grid-template-columns:1fr auto;gap:40px;align-items:center;margin-top:clamp(40px,6vw,72px);padding-top:clamp(32px,5vw,56px);border-top:1px solid rgba(255,244,225,.12)}.zg-phone{width:min(300px,70vw);aspect-ratio:9/16;background:#0d0d0d;border-radius:40px;padding:10px;box-shadow:0 30px 60px rgba(0,0,0,.55),0 0 0 1px rgba(255,244,225,.12)}.zg-phone{position:relative}.zg-phone__toggle{position:absolute;left:50%;bottom:22px;transform:translateX(-50%);background:rgba(30,20,12,.82);color:#fff4e1;border:1px solid rgba(255,244,225,.35);border-radius:999px;padding:9px 16px;font:700 14px/1 var(--font-ui);cursor:pointer}.zg-phone__toggle:hover{background:rgba(30,20,12,.95)}.zg-phone__toggle:focus-visible{outline:3px solid #FFD463;outline-offset:3px}.zg-phone video{width:100%;height:100%;object-fit:cover;border-radius:30px;display:block;background:#000}.zg-reel iframe{width:100%;height:100%;border:0;display:block;background:#000}.zg-play{position:absolute;inset:0;width:100%;height:100%;display:flex;align-items:center;justify-content:center;background:0 0;border:0;cursor:pointer;padding:0}.zg-play span{width:68px;height:68px;border-radius:50%;background:rgba(255,212,99,.94);box-shadow:0 10px 30px rgba(0,0,0,.45);position:relative;transition:transform .3s var(--zg-spring),background .2s}.zg-play span::after{content:"";position:absolute;left:27px;top:21px;border-left:20px solid #1e140c;border-top:13px solid transparent;border-bottom:13px solid transparent}.zg-play:hover span{transform:scale(1.12);background:#ffd463}.zg-play:focus-visible{outline:3px solid #FFD463;outline-offset:-6px;border-radius:22px}.zg-reel figure.is-playing figcaption{display:none}.zg-vk{display:grid;grid-template-columns:1fr auto;gap:30px;align-items:end}.zg-vk__desk{background:#fff;border-radius:22px;overflow:hidden;box-shadow:0 24px 50px rgba(0,30,0,.3)}.zg-vk__desk>img{width:100%;display:block}.zg-vk__meta{display:flex;align-items:center;gap:16px;padding:0 22px 18px;margin-top:-40px;position:relative}.zg-vk__meta img{width:92px;height:92px;border-radius:50%;border:5px solid #fff}.zg-vk__meta b{display:block;color:#222;font:800 20px/1 var(--font-ui);margin-top:40px}.zg-vk__btns{display:grid;grid-template-columns:repeat(5,1fr);gap:10px;padding:0 22px 22px}.zg-vk__btns img{width:100%;border-radius:8px;display:block}.zg-vk__phone{width:240px;border-radius:34px;background:#111;padding:9px;box-shadow:0 24px 50px rgba(0,30,0,.35)}.zg-vk__phone img{width:100%;border-radius:26px;display:block}.zg-browser{background:#fff;border-radius:18px;overflow:hidden;box-shadow:0 24px 60px rgba(0,0,0,.4)}.zg-browser__bar{height:34px;background:#f3e6d0;display:flex;align-items:center;gap:7px;padding:0 14px}.zg-browser__bar i{width:10px;height:10px;border-radius:50%;background:#d9c3a3}.zg-browser__bar span{margin-left:10px;font:700 12px/1 var(--font-ui);color:#8a6a4a;background:#fff;border-radius:6px;padding:5px 12px}.zg-browser img{width:100%;display:block}.zg-site{display:grid;grid-template-columns:1.8fr 1fr;gap:24px;align-items:start}.zg-secs{display:grid;grid-template-columns:repeat(3,1fr);gap:14px;margin-top:24px}.zg-secs figure{margin:0}.zg-secs .im{border-radius:12px;overflow:hidden;background:#fbf0dc;aspect-ratio:16/10;display:flex;align-items:center;box-shadow:0 10px 24px rgba(59,33,15,.16)}.zg-secs img{width:100%;height:auto;display:block}.zg-secs figcaption{font:700 13px/1.3 var(--font-ui);color:var(--zg-brown);margin-top:8px}.zg-phones{display:grid;grid-template-columns:repeat(5,1fr);gap:16px;margin-top:26px}.zg-phones div{background:#111;border-radius:26px;padding:7px;aspect-ratio:9/19.5;overflow:hidden}.zg-phones img{width:100%;height:100%;object-fit:cover;object-position:top;border-radius:20px;display:block}.zg-phones div:nth-child(2n){transform:translateY(26px)}.zg-end{position:relative;overflow:visible}.zg-end .container{position:relative}.zg-end__uz{position:absolute;right:0;top:-20px;width:170px;transform:translateY(60px) rotate(-12deg);opacity:0;transition:transform .9s var(--zg-spring) .3s,opacity .4s ease .3s;z-index:2}.zg-end.is-visible .zg-end__uz{transform:translateY(0) rotate(8deg);opacity:1}@media (max-width:1100px){.zg-hero__uzlik{width:260px}.zg-hero .hero-copy{max-width:calc(100% - 290px)}.zg-stickers{min-height:0;display:grid;grid-template-columns:repeat(3,minmax(0,1fr));gap:18px;align-items:center}.zg-stickers .zg-head{grid-column:1/-1;margin-bottom:8px}.zg-stickers .zg-st{position:static;width:100%!important}.zg-search{grid-template-columns:1fr 1fr}.zg-search__final{grid-column:span 2}.zg-palette{grid-template-columns:repeat(3,minmax(0,1fr))}.zg-booklet,.zg-site,.zg-uz,.zg-video{grid-template-columns:minmax(0,1fr)}}@media (max-width:760px){.zg-hero__uzlik{position:static;transform:none;width:220px;margin:24px auto 0;display:block}.zg-hero .hero-copy{max-width:none}.zg-box,.zg-bts,.zg-grid-3,.zg-lids,.zg-photos,.zg-sheets,.zg-tone,.zg-type,.zg-uz__forms,.zg-vk{grid-template-columns:minmax(0,1fr)}.zg-search{grid-template-columns:1fr}.zg-search__final{grid-column:auto}.zg-family__pic{height:240px}.zg-stickers{grid-template-columns:minmax(0,1fr) minmax(0,1fr)}.zg-covers{grid-template-columns:repeat(4,1fr)}.zg-emos{gap:10px}.zg-emos figure{padding:10px 4px 8px}.zg-emos figcaption{font-size:11px;letter-spacing:.03em}.zg-reel figure:nth-child(2),.zg-reel figure:nth-child(3){margin-top:0}.zg-secs{grid-template-columns:1fr 1fr}.zg-phones{grid-template-columns:repeat(3,1fr)}.zg-phones div:nth-child(n+4){display:none}.zg-vk__phone{display:none}.zg-end__uz{width:96px;top:-10px}}@media (prefers-reduced-motion:reduce){.zg *,.zg ::after,.zg ::before{animation:none!important;transition:none!important}.zg .reveal,.zg .reveal>*,.zg [data-anim],.zg [data-anim]>*{opacity:1!important;transform:none!important;clip-path:none!important}.zg .reveal[data-anim=slap]{transform:rotate(var(--r,0deg))!important}.zg-bk-open .l{transform:rotateY(4deg)!important}.zg-bk-open .r{transform:rotateY(-4deg)!important}.zg-tone .no span{background-size:100% 3px}.zg-end__uz{opacity:1;transform:rotate(8deg)!important}}

diff --git a/cases/zagadkino/index.html b/cases/zagadkino/index.html
@@ -27,7 +27,7 @@
   <meta name="twitter:description" content="Бренд «Загадкино» с нуля: идея деревни мастеров, персонажи, маскот Узлик, упаковка под гравировку, видео и сайт.">
   <meta name="twitter:image" content="https://adervis.ru/assets/cases/zagadkino-og.jpg">
   <link rel="preload" href="/fonts/unbounded-700-cyrillic.woff2" as="font" type="font/woff2" crossorigin><link rel="preload" href="/fonts/unbounded-700-latin.woff2" as="font" type="font/woff2" crossorigin><link rel="stylesheet" href="../../css/style.min.css?v=3aea06b2">
-  <link rel="stylesheet" href="../../css/case-zagadkino.min.css?v=9bdf921e">
+  <link rel="stylesheet" href="../../css/case-zagadkino.min.css?v=ec6965ed">
 
   <script type="application/ld+json">
   {
@@ -364,11 +364,11 @@
             <h2>Деревня мастеров</h2>
             <p>В&nbsp;центре деревни стоит кузница, где кузнец Андрей куёт загадки. Подмастерьем становится каждый, кто взял головоломку в&nbsp;руки.</p>
           </div>
-          <div class="zg-village reveal"><img src="../../assets/cases/zagadkino/village.webp" alt="Иллюстрация деревни Загадкино: домики, лабиринт и тропинки" width="2000" height="848" loading="lazy"></div>
+          <div class="zg-village reveal"><img src="../../assets/cases/zagadkino/village.webp" alt="Иллюстрация деревни Загадкино: домики, лабиринт и тропинки" width="1860" height="763" loading="lazy"></div>
           <div class="zg-grid-3 reveal" data-stagger>
-            <div class="zg-card" style="--i:0"><h3>Кузница</h3><p>Каждый новый набор здесь считают новой работой кузнеца.</p></div>
-            <div class="zg-card" style="--i:3"><h3>Подмастерья</h3><p>Возраст не&nbsp;важен, важно желание разгадать.</p></div>
-            <div class="zg-card" style="--i:6"><h3>Три опоры</h3><p><b>Ремесло:</b> ручная работа. <b>Мышление:</b> развитие ума. <b>Семья:</b> думаем вместе.</p></div>
+            <div class="zg-card" style="--i:0"><span class="zg-ico" aria-hidden="true"><svg viewBox="0 0 48 48" fill="none" stroke="#5A3318" stroke-width="3" stroke-linejoin="round" stroke-linecap="round"><path d="M8 22h26c0 5-4 8-9 8h-6l3 8H14l3-8h-3c-4 0-6-3-6-8z" fill="#E6A24A"/><path d="M30 6l8 8M26 14l8-8 6 6-8 8z" fill="#FFF4E1"/><path d="M27 17l-6 6"/></svg></span><h3>Кузница</h3><p>Каждый новый набор здесь считают новой работой кузнеца.</p></div>
+            <div class="zg-card" style="--i:3"><span class="zg-ico" aria-hidden="true"><svg viewBox="0 0 48 48" fill="none" stroke="#5A3318" stroke-width="3" stroke-linejoin="round" stroke-linecap="round"><path d="M8 30l8-4c2-1 4-1 6 0l8 3c2 1 2 4 0 4h-9" fill="#FFF4E1"/><path d="M6 40l8-4 12 2 14-8c2-1 3 1 2 3l-12 9-14 2-10-1" fill="#E6A24A"/><circle cx="26" cy="13" r="6" fill="#FFD463"/><circle cx="33" cy="15" r="6"/></svg></span><h3>Подмастерья</h3><p>Возраст не&nbsp;важен, важно желание разгадать.</p></div>
+            <div class="zg-card" style="--i:6"><span class="zg-ico" aria-hidden="true"><svg viewBox="0 0 48 48" fill="none" stroke="#5A3318" stroke-width="3" stroke-linejoin="round" stroke-linecap="round"><path d="M6 14l18-8 18 8z" fill="#E6A24A"/><path d="M11 18v18M24 18v18M37 18v18"/><path d="M5 40h38" /><rect x="8" y="16" width="32" height="2" fill="#5A3318"/></svg></span><h3>Три опоры</h3><p><b>Ремесло:</b> ручная работа. <b>Мышление:</b> развитие ума. <b>Семья:</b> думаем вместе.</p></div>
           </div>
         </div>
       </div>
@@ -578,14 +578,12 @@
       <div class="container">
         <div class="zg-island" style="background:#fff">
           <div class="zg-head reveal"><div class="zg-kicker">Предметная съёмка</div><h2>Сняли каждый набор и&nbsp;каждую головоломку</h2><p>Для маркетплейсов, сайта и&nbsp;соцсетей. Все кадры на&nbsp;одном белом фоне и&nbsp;в&nbsp;одном свете, поэтому карточки товаров выглядят как одна серия.</p></div>
-          <div class="zg-photos">
-            <div class="zg-photos__main reveal" data-anim="left"><img src="../../assets/cases/zagadkino/puzzles.webp" alt="Металлические головоломки по отдельности на белом фоне" width="1600" height="810" loading="lazy"></div>
-            <div class="zg-photos__side reveal" data-stagger>
+          <div class="zg-sets reveal" data-stagger>
               <figure style="--i:0"><img src="../../assets/cases/zagadkino/set12.webp" alt="Набор на 12 головоломок" loading="lazy"><figcaption class="zg-cap">Набор на 12</figcaption></figure>
               <figure style="--i:3"><img src="../../assets/cases/zagadkino/set24.webp" alt="Набор на 24 головоломки" loading="lazy"><figcaption class="zg-cap">Набор на 24</figcaption></figure>
               <figure style="--i:6"><img src="../../assets/cases/zagadkino/set36.webp" alt="Набор на 36 головоломок" loading="lazy"><figcaption class="zg-cap">Набор на 36</figcaption></figure>
             </div>
-          </div>
+            <div class="zg-puzzles reveal"><img src="../../assets/cases/zagadkino/puzzles.webp" alt="Металлические головоломки по отдельности на белом фоне" width="1600" height="810" loading="lazy"><div class="zg-cap" style="text-align:center">Головоломки по отдельности</div></div></div>
         </div>
       </div>
     </section>

diff --git a/css/case-zagadkino.css b/css/case-zagadkino.css
@@ -148,7 +148,7 @@
 /* ── Персонажи ─────────────────────────────────────────────────────────── */
 .zg-family .zg-card { text-align: left; }
 .zg-family__pic { height: 300px; display: flex; align-items: flex-end; justify-content: center; margin-bottom: 18px; }
-.zg-family__pic img { max-height: 100%; max-width: 100%; transition: transform .5s var(--zg-spring); }
+.zg-family__pic img { width: auto; height: auto; max-height: 100%; max-width: 100%; object-fit: contain; transition: transform .5s var(--zg-spring); }
 .zg-family .zg-card:hover .zg-family__pic img { transform: translateY(-8px) rotate(-2deg); }
 .zg-family h3 { color: var(--zg-ink); font-size: 22px; }
 .zg-role { font: 700 12px/1 var(--font-ui); letter-spacing: .1em; text-transform: uppercase; color: var(--zg-honey-dark); margin-bottom: 10px; }
@@ -223,6 +223,18 @@
 .zg-photos__side { display: grid; grid-template-rows: repeat(3, 1fr); gap: 14px; }
 .zg-photos__side figure { background: #fff; border-radius: 20px; padding: 12px; display: flex; flex-direction: column; align-items: center; justify-content: flex-end; }
 .zg-photos__side img { max-height: 150px; width: auto; max-width: 100%; }
+
+
+/* иконки карточек идеи */
+.zg-ico { display: inline-flex; width: 56px; height: 56px; border-radius: 16px; background: #FFF1D6; align-items: center; justify-content: center; margin-bottom: 14px; }
+.zg-ico svg { width: 36px; height: 36px; }
+
+/* предметка v2: наборы крупно в ряд, головоломки под ними */
+.zg-sets { display: grid; grid-template-columns: .72fr 1fr 1fr; gap: 20px; align-items: end; margin-bottom: 28px; }
+.zg-sets figure { background: #fff; border-radius: 20px; padding: 20px 16px 16px; display: flex; flex-direction: column; align-items: center; justify-content: flex-end; height: 100%; }
+.zg-sets img { width: 100%; height: auto; max-height: 360px; object-fit: contain; }
+.zg-puzzles img { width: 100%; height: auto; display: block; max-width: 1100px; margin: 0 auto; }
+@media (max-width: 760px) { .zg-sets { grid-template-columns: minmax(0, 1fr); } .zg-sets img { max-height: 300px; } }
 
 /* ── Видео ─────────────────────────────────────────────────────────────── */
 .zg-video { display: grid; grid-template-columns: 1fr 1.4fr; gap: 40px; align-items: start; }
